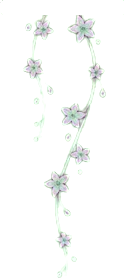
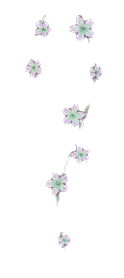
Jungle vines: hang from the screen edge, thick, behind the cards; clean assets; no ivy, no garlands
Climbers are pothos-hanging and hoya-hanging (new cleaned files), drawn 90px wide
with the edge of the screen cutting 39% of them, so a 55px strip shows, up to 450px
tall, fading in at the top and dissolving at the end. They sit behind the cards,
with a mask hole under every text line, icon and control the strip meets. No gap
between cards is opened. Ivy and all garlands are deleted (files and code); the
corner plant on the gnome card is restored from main.

Claude-Session: https://claude.ai/code/session_01KwF536G8oVpFRFLTUkqtJD

diff --git a/index.html b/index.html
@@ -958,15 +958,24 @@ html:is([data-theme="nachal"],[data-theme="jungle"]) #site-search{padding:14px 4
 [data-theme="jungle"] .jg-home .nh-greet{margin-top:2px}
 [data-theme="jungle"] .jg-home .nh-tools{margin-top:16px}
 [data-theme="jungle"] .jg-home .nh-sec{margin-top:24px}
+/* the plant in the corner of the briefing card, as it was: a thin corner vine and a hoya cluster, golden glow, a few sparkles */
+[data-theme="jungle"] .jgc-host{position:relative;overflow:visible!important}
+[data-theme="jungle"] .jg-corner{position:absolute;inset:0;pointer-events:none;z-index:2}
+[data-theme="jungle"] .jgc{position:absolute;z-index:2;pointer-events:none}
+[data-theme="jungle"] .jgc b{position:absolute;inset:0;background:center/contain no-repeat;filter:drop-shadow(0 0 8px var(--jg-gold))}
+[data-theme="jungle"] .jgc i{position:absolute;width:4px;height:4px;margin:-2px 0 0 -2px;border-radius:50%;pointer-events:none;
+  background:#FFE9AE;box-shadow:0 0 5px 1px rgba(255,218,130,.75);opacity:.55;animation:jg-twinkle 5s ease-in-out infinite}
+[data-theme="jungle"] .jgc-corner{top:-14px;left:-14px;width:96px;height:98px}
+[data-theme="jungle"] .jgc-hoya{top:-44px;left:30px;width:40px;height:58px}
 /* vines between cards: hidden behind the card above (it is higher in the stack), drawn over the top of the card below.
    The glow is on the drawing alone; sparkles ride its centre line; the wave of light is the sparkles lighting one after another. */
 [data-theme="jungle"] .vn-card{position:relative}
-[data-theme="jungle"] .vn{position:absolute;pointer-events:none}
-[data-theme="jungle"] .vn b{position:absolute;inset:0;background:center/100% 100% no-repeat}
-/* the part behind the card above is not drawn at all (a translucent card would show it): the vine starts at that card's lower edge */
-[data-theme="jungle"] .vn b{-webkit-mask-image:linear-gradient(to bottom,transparent calc(var(--hide) - 2px),#000 calc(var(--hide) + 5px));mask-image:linear-gradient(to bottom,transparent calc(var(--hide) - 2px),#000 calc(var(--hide) + 5px))}
-[data-theme="jungle"] .vn-mint b{filter:drop-shadow(0 0 6px var(--jg-mint))}
-[data-theme="jungle"] .vn-gold b{filter:drop-shadow(0 0 6px var(--jg-gold))}
+[data-theme="jungle"] .vn{position:absolute;pointer-events:none;overflow:hidden}
+/* the box is the strip at the edge of the screen: it clips the half of the drawing the edge cuts off, fades the top in and dissolves the end */
+[data-theme="jungle"] .vn img{position:absolute;top:0;display:block;image-rendering:auto;user-select:none;-webkit-user-drag:none}
+/* the glow is a drop-shadow on the drawing itself: no box, no background, no gradient behind it */
+[data-theme="jungle"] .vn-mint img{filter:drop-shadow(0 0 6px var(--jg-mint))}
+[data-theme="jungle"] .vn-gold img{filter:drop-shadow(0 0 6px var(--jg-gold))}
 [data-theme="jungle"] .vn i{position:absolute;width:4px;height:4px;margin:-2px 0 0 -2px;border-radius:50%;opacity:.22;
   animation:vn-spark 8s ease-in-out infinite;animation-delay:calc(var(--t) * 2.4s)}
 [data-theme="jungle"] .vn-mint i{background:#E2FFF2;box-shadow:0 0 5px 1px rgba(170,255,220,.85)}
@@ -974,7 +983,7 @@ html:is([data-theme="nachal"],[data-theme="jungle"]) #site-search{padding:14px 4
 @keyframes vn-spark{0%,34%,100%{opacity:.22;transform:scale(.7)}14%{opacity:1;transform:scale(1.35)}}
 [data-theme="jungle"] .vn.vn-wave i{animation:vn-wave 1.4s ease-out 1 both;animation-delay:calc(var(--t) * .85s)}
 @keyframes vn-wave{0%{opacity:.22;transform:scale(.7)}35%{opacity:1;transform:scale(2.1)}100%{opacity:.22;transform:scale(.7)}}
-[data-theme="jungle"] .vn.vn-wave b{animation:vn-glow 1.4s ease-out 1}
+[data-theme="jungle"] .vn.vn-wave img{animation:vn-glow 1.4s ease-out 1}
 @keyframes vn-glow{35%{filter:drop-shadow(0 0 11px var(--jg-gold))}}
 [data-theme="jungle"] .vn.vn-off i{animation-play-state:paused}
 /* status: a glass bead and an ink word */
@@ -1000,8 +1009,8 @@ html:is([data-theme="nachal"],[data-theme="jungle"]) #site-search{padding:14px 4
 /* the nav stays Nachal's to the pixel: its ink is pinned to Nachal's */
 [data-theme="jungle"] #nav{--t1:#0B1A12;--t2:#34473D;--t3:#4A5A52;color:#0B1A12}
 @media (prefers-reduced-motion:reduce){
-  [data-theme="jungle"] :is(.jg-spark,.jg-star.new,.jg-branch.all .jg-branch-v,.vn i,.vn b){animation:none!important}
-  [data-theme="jungle"] :is(.jg-spark,.vn i){opacity:.8}}
+  [data-theme="jungle"] :is(.jg-spark,.jg-star.new,.jg-branch.all .jg-branch-v,.vn i,.vn img,.jgc i){animation:none!important}
+  [data-theme="jungle"] :is(.jg-spark,.vn i,.jgc i){opacity:.8}}
 /* the jungle's nav: its own drawings at 26px in a finer line, and the chosen
    tab marked by a warm amber disc with a soft glow (it still springs from tab
    to tab like the drop); badges and the bar itself are Nachal's */
@@ -1033,7 +1042,7 @@ html:is([data-theme="nachal"],[data-theme="jungle"]) #site-search{padding:14px 4
 [data-theme="jungle"] .gn-bubble[role="button"]{cursor:pointer}
 [data-theme="jungle"] .gn-k{font-size:12.5px;font-weight:700;color:var(--gold);line-height:1.2}
 [data-theme="jungle"] .gn-t{font-size:15px;font-weight:600;line-height:1.35;color:var(--t1);text-wrap:balance;display:-webkit-box;-webkit-line-clamp:2;-webkit-box-orient:vertical;overflow:hidden}
-[data-theme="jungle"] .gn-edit{position:absolute;top:-6px;left:-6px;width:32px;height:32px;border-radius:50%;background:var(--surface-2);color:var(--t2);display:grid;place-items:center;font-size:15px;box-shadow:0 2px 6px -2px rgba(0,0,0,.4)}
+[data-theme="jungle"] .gn-edit{position:absolute;bottom:22px;left:-6px;width:32px;height:32px;border-radius:50%;background:var(--surface-2);color:var(--t2);display:grid;place-items:center;font-size:15px;box-shadow:0 2px 6px -2px rgba(0,0,0,.4)}
 [data-theme="jungle"] .gn-dots{display:flex;gap:6px;justify-content:center}
 [data-theme="jungle"] .gn-dots i{width:7px;height:7px;border-radius:50%;background:rgba(45,102,52,.28)}
 [data-theme="jungle"] .gn-dots i.on{background:var(--gold);box-shadow:0 0 6px rgba(111,181,122,.8)}
@@ -4591,7 +4600,7 @@ function gnomeSlotHtml() {
   const full = gnFull ? dailyBriefingHtml() : ''
   return gnomeCardHtml() + (gnFull ? `<div class="gn-full">${full || `<div class="card"><div class="muted" style="font-size:var(--fs-sm)">${tr('home_briefing_no_server')}</div></div>`}<button class="gn-btn gn-close" onclick="toggleGnFull()">${tr('gn_less')}</button></div>` : '')
 }
-function gnNext() { const el = document.getElementById('jg-gnome'); if(!el) return; haptic('light'); if(el.dataset.kind === 'greet') gnGreet = false; else gnIdx++; el.outerHTML = gnomeCardHtml(); gnomeAfterRender() }
+function gnNext() { const el = document.getElementById('jg-gnome'); if(!el) return; haptic('light'); if(el.dataset.kind === 'greet') gnGreet = false; else gnIdx++; el.outerHTML = gnomeCardHtml(); gnomeAfterRender(); jungleDress('home') }
 function toggleGnFull() { gnFull = !gnFull; if(currentScreen === 'home') renderHome() }
 // motion: breathing/sway/glow are CSS (paused off-screen, off with reduced motion); the wave and the blink are timed here
 function gnomeSet(img, key) { const t = GN_TAB[key]; if(!t) return; const tmp = document.createElement('div'); tmp.innerHTML = gnPoseHtml(key); const n = tmp.querySelector('.gn-img'); img.src = n.src; img.style.cssText = n.style.cssText; img.dataset.pose = key }
@@ -4617,111 +4626,119 @@ function gnomeAfterRender() {
 }
 
 // ── VINES BETWEEN THE CARDS (jungle) ──
-// A vine grows out from behind one card, hangs through the gap and over the
-// top of the card below. The layering does it: every card in a run gets a
-// z-index one step lower than the card above, and the vine sits between two
-// of them, so it is hidden behind the upper card (its cut end never shows)
-// and drawn in front of the lower one. No wrapper is added around any card.
-// Where it lands is measured, not guessed: the vine is placed only where no
-// text, icon or control lies under it, and shortened or moved sideways until
-// that is true; if no place is free there is no vine. At most two to a
-// screen, alternating (a hanging vine, then a garland across the next gap),
-// never on every gap. The glow is a drop-shadow on the drawing only; golden
-// or mint sparkles sit along the vine's own centre line, and a slow wave of
-// light runs down it every 8 seconds while it is on screen. Finishing a task
+// A vine grows out from behind one card, hangs through a window opened in the
+// gap and lies over the top of the card below. The layering does it: every
+// card in a run gets a z-index one step lower than the card above, and the
+// vine sits between two of them, so it is hidden behind the upper card (its
+// cut end never shows) and drawn in front of the lower one; nothing wraps a
+// card and nothing sits behind a vine.
+// Size: every vine is drawn at exactly half the size of its file, so the file
+// holds twice the pixels the layout needs (a 3x phone gets 1.5x of them, never
+// less), nothing is enlarged and no filter blurs it. That puts the hanging
+// A climber hangs from the edge of the screen, like a plant growing at the side of the page: its
+// drawing is 90px wide and half of it is cut off by the edge, so what shows is a 55px strip. It sits
+// behind the cards (the cards are in front of it), so it shows in the margin beside them and in the
+// gaps between them and is never over text, an icon or a button. It starts beside the first card,
+// fades in at its top, hangs up to 450px and dissolves at the end (or where something that is not
+// a card, a heading, stands in the strip). One on the left; one more on the right only when there is
+// room and height below the first one's end. Nothing about the layout changes: the gap between
+// the cards is not touched. The glow is a drop-shadow on the img itself; sparkles ride its centre
+// line, a slow wave of light runs down it every 8s while it is on screen, and finishing a task
 // sends one quicker wave down the nearest vine. Static with reduced motion.
 // Line table: for each drawing, points along its centre line [position along, across] as fractions.
-const VN = {"fern":{"d":"hanging","w":125,"h":280,"tone":"mint","line":[[0.036,0.501],[0.107,0.486],[0.179,0.511],[0.25,0.514],[0.321,0.498],[0.393,0.542],[0.464,0.546],[0.536,0.555],[0.607,0.532],[0.679,0.504],[0.75,0.479],[0.821,0.473],[0.893,0.474],[0.964,0.482]]},"hoya":{"d":"hanging","w":124,"h":264,"tone":"gold","line":[[0.034,0.492],[0.104,0.487],[0.176,0.478],[0.248,0.485],[0.32,0.527],[0.392,0.493],[0.464,0.494],[0.534,0.564],[0.604,0.487],[0.676,0.348],[0.748,0.374],[0.82,0.498],[0.892,0.563],[0.964,0.428]]},"ivy":{"d":"hanging","w":124,"h":269,"tone":"mint","line":[[0.035,0.479],[0.106,0.467],[0.177,0.491],[0.247,0.538],[0.32,0.516],[0.392,0.572],[0.463,0.509],[0.533,0.568],[0.604,0.484],[0.677,0.576],[0.749,0.528],[0.82,0.448],[0.89,0.484],[0.963,0.444]]},"pothos":{"d":"hanging","w":124,"h":281,"tone":"mint","line":[[0.036,0.517],[0.107,0.488],[0.178,0.493],[0.249,0.537],[0.32,0.468],[0.391,0.521],[0.463,0.489],[0.534,0.555],[0.605,0.46],[0.676,0.56],[0.747,0.437],[0.819,0.509],[0.89,0.483],[0.963,0.46]]},"star-flower":{"d":"hanging","w":124,"h":278,"tone":"gold","line":[[0.034,0.525],[0.104,0.522],[0.176,0.584],[0.248,0.475],[0.32,0.635],[0.392,0.582],[0.464,0.545],[0.534,0.617],[0.604,0.554],[0.676,0.46],[0.748,0.485],[0.82,0.498],[0.892,0.517],[0.964,0.519]]},"string-hearts":{"d":"hanging","w":81,"h":264,"tone":"mint","line":[[0.034,0.499],[0.104,0.479],[0.176,0.489],[0.248,0.494],[0.32,0.418],[0.392,0.486],[0.464,0.547],[0.534,0.433],[0.604,0.479],[0.676,0.407],[0.748,0.581],[0.82,0.44],[0.892,0.398],[0.964,0.503]]},"garland-fern-hoya":{"d":"garlands","w":461,"h":143,"tone":"gold","line":[[0.035,0.309],[0.105,0.407],[0.177,0.51],[0.248,0.519],[0.32,0.545],[0.392,0.518],[0.463,0.472],[0.535,0.557],[0.606,0.569],[0.678,0.53],[0.749,0.477],[0.821,0.511],[0.893,0.401],[0.964,0.306]]},"garland-ivy":{"d":"garlands","w":460,"h":94,"tone":"mint","line":[[0.035,0.33],[0.105,0.458],[0.177,0.556],[0.249,0.658],[0.321,0.726],[0.392,0.767],[0.464,0.811],[0.535,0.765],[0.605,0.788],[0.677,0.749],[0.749,0.705],[0.821,0.592],[0.892,0.501],[0.964,0.302]]},"garland-pothos":{"d":"garlands","w":460,"h":112,"tone":"mint","line":[[0.035,0.291],[0.105,0.401],[0.177,0.495],[0.249,0.535],[0.321,0.656],[0.392,0.638],[0.464,0.661],[0.535,0.694],[0.605,0.659],[0.677,0.604],[0.749,0.547],[0.821,0.512],[0.892,0.421],[0.964,0.271]]},"garland-stars":{"d":"garlands","w":441,"h":68,"tone":"gold","line":[[0.035,0.203],[0.107,0.524],[0.178,0.58],[0.249,0.616],[0.321,0.815],[0.392,0.839],[0.464,0.806],[0.535,0.658],[0.607,0.88],[0.678,0.795],[0.749,0.716],[0.821,0.619],[0.892,0.486],[0.964,0.185]]},"hoya-hanging":{"d":"tall-hanging","w":137,"h":820,"tone":"gold","line":[[0.035,0.52],[0.107,0.621],[0.178,0.612],[0.249,0.574],[0.321,0.357],[0.392,0.374],[0.464,0.481],[0.535,0.437],[0.607,0.605],[0.678,0.622],[0.749,0.628],[0.821,0.518],[0.892,0.531],[0.964,0.52]]},"ivy-hanging":{"d":"tall-hanging","w":130,"h":829,"tone":"mint","line":[[0.036,0.594],[0.107,0.635],[0.178,0.548],[0.249,0.616],[0.321,0.421],[0.393,0.322],[0.464,0.329],[0.535,0.505],[0.606,0.62],[0.678,0.742],[0.75,0.69],[0.821,0.539],[0.892,0.548],[0.964,0.584]]},"pothos-hanging":{"d":"tall-hanging","w":155,"h":821,"tone":"mint","line":[[0.035,0.417],[0.107,0.443],[0.178,0.486],[0.249,0.405],[0.321,0.49],[0.392,0.287],[0.463,0.387],[0.535,0.434],[0.607,0.51],[0.678,0.665],[0.75,0.601],[0.821,0.407],[0.892,0.444],[0.964,0.499]]},"star-thin-hanging":{"d":"tall-hanging","w":82,"h":851,"tone":"gold","line":[[0.035,0.442],[0.106,0.457],[0.178,0.663],[0.25,0.62],[0.321,0.294],[0.392,0.253],[0.464,0.421],[0.535,0.617],[0.607,0.762],[0.678,0.737],[0.749,0.517],[0.821,0.374],[0.892,0.522],[0.964,0.583]]}}
-// the hanging vine and the garland for each screen; the thin tall drawings where a thin vine suits (Tasks, People), the other family as a fallback
-const VN_PICK = {home: ['pothos', 'garland-ivy'], tasks: ['hoya-hanging', 'garland-pothos'], people: ['ivy-hanging', 'garland-stars'], sites: ['fern', 'garland-ivy']}
-const VN_ALT = {home: 'ivy', tasks: 'hoya', people: 'pothos-hanging', sites: 'star-thin-hanging'}
-const VN_HIDE = 22        // how far a vine reaches up behind the card it hangs from, px
+const VN = {"pothos-hanging":{"d":"tall-hanging","w":155,"h":821,"tone":"mint","line":[[0.021,0.342],[0.062,0.471],[0.104,0.484],[0.146,0.337],[0.188,0.54],[0.229,0.475],[0.271,0.335],[0.312,0.525],[0.354,0.39],[0.396,0.293],[0.438,0.307],[0.479,0.399],[0.521,0.408],[0.562,0.4],[0.604,0.522],[0.646,0.579],[0.688,0.677],[0.729,0.547],[0.771,0.572],[0.812,0.419],[0.854,0.371],[0.896,0.453],[0.938,0.507],[0.979,0.451]]},"hoya-hanging":{"d":"tall-hanging","w":137,"h":820,"tone":"gold","line":[[0.021,0.497],[0.062,0.573],[0.104,0.723],[0.146,0.513],[0.188,0.629],[0.229,0.708],[0.271,0.421],[0.312,0.369],[0.354,0.381],[0.396,0.33],[0.438,0.411],[0.479,0.518],[0.521,0.368],[0.562,0.592],[0.604,0.631],[0.646,0.528],[0.688,0.655],[0.729,0.682],[0.771,0.556],[0.812,0.524],[0.854,0.476],[0.896,0.515],[0.938,0.57],[0.979,0.501]]}}
+const VN_W = 90              // drawn width of the drawing before the edge cuts it (scale .58 pothos, .66 hoya: never under .5)
+const VN_STRIP = 55          // what shows of it: this much from the edge of the screen
+const VN_MAXLEN = 450, VN_MINLEN = 300, VN_FADE_TOP = 40, VN_FADE_END = 70
+const VN_PAD = 14            // room on the inner side of the strip for the glow (the box clips at its edge, not at the drawing)
+const VN_PICK = {home: ['pothos-hanging', 'hoya-hanging'], tasks: ['hoya-hanging', 'pothos-hanging'], people: ['pothos-hanging', 'hoya-hanging'], sites: ['hoya-hanging', 'pothos-hanging']}
 let vnObs = null, vnRO = null, vnLast = 0
 function vnSrc(k) { return 'assets/vines/' + VN[k].d + '/' + k + '.webp' }
-function vnHtml(k, g, z, hide) {
-  const t = VN[k], horiz = t.d === 'garlands', long = horiz ? g.w : g.h, n = Math.max(3, Math.round(long * (horiz ? 0.012 : 0.036)))
-  const at = (f) => { const L = t.line; if(!L.length) return [f, .5]; let i = 0; while(i < L.length - 1 && L[i + 1][0] < f) i++; const a = L[i], b = L[Math.min(i + 1, L.length - 1)], u = b[0] === a[0] ? 0 : Math.max(0, Math.min(1, (f - a[0]) / (b[0] - a[0]))); return [f, a[1] + (b[1] - a[1]) * u] }
+// side: 'l' or 'r'; box: {x, y, len} relative to the container, x being the box's left edge (the edge of the screen on the left,
+// the strip's inner side on the right); the span is VN_STRIP + VN_PAD wide and clips at the edge.
+function vnHtml(k, side, box, z, holes) {
+  const t = VN[k], W = VN_W, H = W * t.h / t.w, P = VN_PAD, bw = VN_STRIP + P, cutW = W - VN_STRIP
+  const il = side === 'l' ? -cutW : bw - VN_STRIP, n = Math.max(3, Math.round(box.len * .036))
+  const at = f => { const L = t.line; let i = 0; while(i < L.length - 1 && L[i + 1][0] < f) i++; const a = L[i], b = L[Math.min(i + 1, L.length - 1)], u = b[0] === a[0] ? 0 : Math.max(0, Math.min(1, (f - a[0]) / (b[0] - a[0]))); return a[1] + (b[1] - a[1]) * u }
   let sp = ''
-  for(let i = 0; i < n; i++) { const f = (i + .5) / n, p = at(f), x = horiz ? f : p[1], y = horiz ? p[1] : f; sp += '<i style="left:' + (x * 100).toFixed(1) + '%;top:' + (y * 100).toFixed(1) + '%;--t:' + f.toFixed(2) + '"></i>' }
-  return '<span class="vn vn-' + t.tone + '" aria-hidden="true" style="left:' + g.x.toFixed(1) + 'px;top:' + g.y.toFixed(1) + 'px;width:' + g.w.toFixed(1) + 'px;height:' + g.h.toFixed(1) + 'px;z-index:' + z + ';--hide:' + hide + 'px"><b style="background-image:url(\'' + vnSrc(k) + '\')"></b>' + sp + '</span>'
+  for(let i = 0; i < n; i++) { const y = (i + .5) / n * box.len, f = y / H, x = il + at(f) * W; if(x < 2 || x > bw - 2) continue; sp += '<i style="left:' + x.toFixed(1) + 'px;top:' + y.toFixed(1) + 'px;--t:' + (y / box.len).toFixed(2) + '"></i>' }
+  return '<span class="vn vn-' + t.tone + ' vn-' + side + '" aria-hidden="true" data-vine="' + k + '" data-side="' + side + '" style="left:' + box.x.toFixed(1) + 'px;top:' + box.y.toFixed(1) + 'px;width:' + bw + 'px;height:' + box.len.toFixed(1) + 'px;z-index:' + z + ';--len:' + box.len.toFixed(1) + 'px;' + vnMask(box.len, bw, holes) + '"><img alt="" draggable="false" style="left:' + il.toFixed(1) + 'px;width:' + W + 'px;height:' + H.toFixed(1) + 'px" src="' + vnSrc(k) + '">' + sp + '</span>'
+}
+// the vine's mask: fade in at the top, dissolve at the end, and a hole under every text line, icon and control that its strip meets
+// (holes are {x, y, w, h} inside the span). Drawn in front of nothing readable: where it would be, the card shows alone.
+function vnMask(len, bw, holes) {
+  const grad = 'linear-gradient(to bottom,transparent 0,#000 40px,#000 ' + Math.max(41, len - VN_FADE_END).toFixed(1) + 'px,transparent ' + len.toFixed(1) + 'px)', solid = 'linear-gradient(#000,#000)'
+  const img = [grad].concat(holes.map(() => solid)).join(','), size = ['100% 100%'].concat(holes.map(h => h.w.toFixed(1) + 'px ' + h.h.toFixed(1) + 'px')).join(',')
+  const pos = ['0 0'].concat(holes.map(h => h.x.toFixed(1) + 'px ' + h.y.toFixed(1) + 'px')).join(','), comp = ['subtract'].concat(holes.map(() => 'add')).join(','), wcomp = ['source-out'].concat(holes.map(() => 'source-over')).join(',')
+  return '-webkit-mask-image:' + img + ';mask-image:' + img + ';-webkit-mask-size:' + size + ';mask-size:' + size + ';-webkit-mask-position:' + pos + ';mask-position:' + pos + ';-webkit-mask-repeat:no-repeat;mask-repeat:no-repeat;-webkit-mask-composite:' + wcomp + ';mask-composite:' + comp
 }
 // the rectangles of everything readable or touchable inside root (text lines, controls, icons, pictures)
 function vnContent(root, skip) {
   const out = [], push = r => { if(r.width > 0.5 && r.height > 0.5) out.push(r) }
   const w = document.createTreeWalker(root, NodeFilter.SHOW_TEXT)
   let n; while((n = w.nextNode())) { if(!n.textContent.trim() || (skip && skip(n.parentElement))) continue; const rg = document.createRange(); rg.selectNodeContents(n); Array.prototype.forEach.call(rg.getClientRects(), push) }
-  root.querySelectorAll('button,a,input,select,textarea,svg,img,[role="button"],.nh-tick,.nh-check').forEach(e => { if(!(skip && skip(e)) && !e.closest('.vn')) push(e.getBoundingClientRect()) })
+  root.querySelectorAll('button,a,input,select,textarea,svg,img,.nh-tick,.nh-check').forEach(e => { if(!(skip && skip(e)) && !e.closest('.vn')) push(e.getBoundingClientRect()) })
   return out
 }
 function vnClear(el) {
   el.querySelectorAll('.vn').forEach(v => v.remove())
-  el.querySelectorAll('[data-vn]').forEach(c => { c.style.zIndex = ''; if(c.dataset.vnm !== undefined) { c.style.marginBottom = c.dataset.vnm; delete c.dataset.vnm } c.classList.remove('vn-card'); delete c.dataset.vn })
+  el.querySelectorAll('[data-vn]').forEach(c => { c.style.zIndex = ''; c.classList.remove('vn-card'); delete c.dataset.vn })
 }
 function jungleVines(screen) {
   const el = document.getElementById('screen-' + screen); if(!el) return
   vnClear(el)
   if(currentTheme !== 'jungle') return
-  let container, cards, sel
+  let container, cards
   if(screen === 'home') { container = el.querySelector('.jg-home'); cards = container ? [container.querySelector('#jg-gnome, #daily-briefing'), container.querySelector('.nh-list'), container.querySelector('.nh-garden'), container.querySelector('.nh-peek')] : [] }
   else if(screen === 'tasks') { container = el.querySelector('.card .nh-check') ? el.querySelector('.card .nh-check').closest('.card').parentElement : null; cards = container ? [...container.children].filter(c => c.matches('.card, div:has(> .right-now-toggle)')) : [] }
   else if(screen === 'people') { const c0 = el.querySelector(':scope > div .card'); container = c0 ? c0.parentElement : null; cards = container ? [...container.children].filter(c => c.matches('.card')) : [] }
   else if(screen === 'sites') { container = el.querySelector('#sites-results'); cards = container ? [...container.querySelectorAll(':scope > .site-card')] : [] }
   else return
-  cards = cards.filter(Boolean); if(!container || cards.length < 2) return
-  // pairs: consecutive cards, a hanging vine on the first gap, a garland on the next, never more than two
-  const plan = [], seq = ['hang', 'garland']
-  for(let i = 0; i + 1 < cards.length && plan.length < 2; i += (plan.length ? 1 : 1)) {
-    if(plan.length === 1 && i < plan[0].i + 2) continue   // not on every gap: skip one
-    plan.push({i, A: cards[i], B: cards[i + 1], kind: seq[plan.length]})
-  }
-  if(!plan.length) return
+  cards = cards.filter(Boolean)
+  if(!container || !cards.length) return
   if(getComputedStyle(container).position === 'static') container.style.position = 'relative'
   container.style.isolation = 'isolate'
-  // open the gaps a vine grows through, then measure once
-  plan.forEach(p => { const A = p.A; A.dataset.vnm = A.style.marginBottom; const need = p.kind === 'garland' ? 38 : 30; const gap = p.B.getBoundingClientRect().top - A.getBoundingClientRect().bottom; if(gap < need) A.style.marginBottom = (parseFloat(getComputedStyle(A).marginBottom) + (need - gap)).toFixed(0) + 'px' })
-  cards.forEach((c, j) => { c.dataset.vn = '1'; c.classList.add('vn-card'); c.style.zIndex = String(100 - 4 * j) })
-  const cr = container.getBoundingClientRect(), rel = r => ({l: r.left - cr.left, r: r.right - cr.left, t: r.top - cr.top, b: r.bottom - cr.top})
+  // the cards are in front of the vines (z-index above), the vines in front of everything else
+  cards.forEach((c, j) => { c.dataset.vn = '1'; c.classList.add('vn-card'); c.style.zIndex = String(100 - j) })
+  const sr = el.getBoundingClientRect(), cr = container.getBoundingClientRect()
+  const rel = r => ({l: r.left - cr.left, r: r.right - cr.left, t: r.top - cr.top, b: r.bottom - cr.top})
+  const inCard = e => !!e.closest('[data-vn]') || !!e.closest('.vn')
+  // what stands in the way of a strip: anything readable or touchable that is not inside a card
+  const others = vnContent(container, inCard).map(rel)
+  const stripX = side => side === 'l' ? [sr.left - cr.left, sr.left - cr.left + VN_STRIP + 2] : [sr.right - cr.left - VN_STRIP - 2, sr.right - cr.left]
+  const reach = (side, y0) => { const [x0, x1] = stripX(side); let e = VN_MAXLEN
+    for(const q of others) if(q.r > x0 - 4 && q.l < x1 + 4 && q.b > y0 && q.t - 8 < y0 + e) e = Math.max(0, q.t - 8 - y0)
+    return e }
+  const ca = rel(cards[0].getBoundingClientRect()), bottomOf = rel(cards[cards.length - 1].getBoundingClientRect()).b
   const html = []
-  plan.forEach(function(p) {
-    const a = rel(p.A.getBoundingClientRect()), b = rel(p.B.getBoundingClientRect()), gap = b.t - a.b, j = cards.indexOf(p.A)
-    if(window.__vnDebug) window.__vnDebug.push({screen, kind: p.kind, gap: Math.round(gap)})
-    if(gap > 90 || gap < 0) return
-    const inA = a.r - a.l, free = function(box) {   // nothing readable or touchable under box (a little air around it)
-      const pad = 8, vpad = 2, hit = (r) => { const q = rel(r); return q.r > box.l - pad && q.l < box.r + pad && q.b > box.t - vpad && q.t < box.b + vpad }
-      const skip = e => e.closest('.vn')
-      const inGap = []; let s = p.A.nextElementSibling; while(s && s !== p.B && !s.contains(p.B)) { inGap.push(s); s = s.nextElementSibling }
-      return !inGap.some(g => vnContent(g, skip).some(hit)) && !vnContent(p.B, skip).some(hit)
-    }
-    const z = 98 - 4 * j
-    if(p.kind === 'hang') {
-      for(const k of [VN_PICK[screen][0], VN_ALT[screen]]) {
-        const t = VN[k], xs = [a.l + .14 * inA, a.r - .14 * inA, a.l + .5 * inA, a.l + .3 * inA, a.l + .7 * inA]
-        const overs = [60, 48, 36, 28, 20, 12, 0]
-        for(const over of overs) {
-          if(over === 0 && gap < 24) continue
-          const L = VN_HIDE + gap + over, w = Math.max(14, Math.min(62, t.w * L / t.h)), h = w * t.h / t.w
-          for(const x of xs) { const box = {l: x - w / 2, r: x + w / 2, t: a.b - VN_HIDE, b: a.b - VN_HIDE + h}
-            if(free({l: box.l, r: box.r, t: a.b, b: box.b})) { html.push(vnHtml(k, {x: box.l, y: box.t, w, h}, z, VN_HIDE)); return } }
-        }
-      }
-    } else {
-      const k = VN_PICK[screen][1], t = VN[k]
-      for(const W of [inA - 20, inA - 70, inA - 130]) {
-        if(W < 160) break
-        const h = W * t.h / t.w, x = a.l + (inA - W) / 2, box = {l: x, r: x + W, t: a.b - 10, b: a.b - 10 + h}
-        if(free({l: box.l, r: box.r, t: a.b, b: box.b})) { html.push(vnHtml(k, {x, y: box.t, w: W, h}, z, 10)); return }
-      }
-    }
-  })
+  const all = vnContent(container, e => !!e.closest('.vn')).map(rel), cardBox = cards.map(c => rel(c.getBoundingClientRect()))
+  const put = (k, side, y0, len) => { const x = side === 'l' ? sr.left - cr.left : sr.right - cr.left - (VN_STRIP + VN_PAD), bw = VN_STRIP + VN_PAD, pad = 6
+    const holes = all.filter(q => q.r + pad > x && q.l - pad < x + bw && q.b + pad > y0 && q.t - pad < y0 + len).map(q => {
+      // a hole stays inside the card its text or icon belongs to: in the margin beside the card there is nothing to protect
+      const cx = (q.l + q.r) / 2, cy = (q.t + q.b) / 2, cd = cardBox.find(c => cx >= c.l && cx <= c.r && cy >= c.t && cy <= c.b) || {l: -1e5, r: 1e5, t: -1e5, b: 1e5}
+      const l = Math.max(q.l - pad, cd.l), r = Math.min(q.r + pad, cd.r), t = Math.max(q.t - pad, cd.t), b = Math.min(q.b + pad, cd.b)
+      return {x: l - x, y: t - y0, w: r - l, h: b - t} })
+    html.push(vnHtml(k, side, {x, y: y0, len}, 1, holes)) }
+  // first: the left, beside the first card's lower part; the right if the left is taken
+  const y0 = Math.max(ca.t + 20, ca.b - 60)
+  let first = null
+  for(const side of ['l', 'r']) { const len = reach(side, y0); if(len >= VN_MINLEN) { first = {side, len, end: y0 + len}; break } }
+  if(!first) { const l = reach('l', y0), r = reach('r', y0); if(Math.max(l, r) >= 120) first = {side: l >= r ? 'l' : 'r', len: Math.max(l, r), end: y0 + Math.max(l, r)} }
+  if(!first) return
+  const pick = VN_PICK[screen]
+  put(pick[0], first.side, y0, first.len)
+  // a second one on the other side, beginning below the first one's end, only if a whole chain fits inside the cards
+  const other = first.side === 'l' ? 'r' : 'l', y1 = first.end + 40
+  if(bottomOf - y1 >= VN_MINLEN) { const len = reach(other, y1); if(len >= VN_MINLEN) put(pick[1], other, y1, len) }
   container.insertAdjacentHTML('beforeend', html.join(''))
-  vnWatch(el, container, screen)
+  vnWatch(container, screen)
 }
 // on screen: the slow wave runs; off screen it pauses. A resize re-places the vines.
-function vnWatch(el, container, screen) {
+function vnWatch(container, screen, animating) {
   const vs = container.querySelectorAll('.vn')
   if(window.IntersectionObserver) { if(!vnObs) vnObs = new IntersectionObserver(es => es.forEach(e => e.target.classList.toggle('vn-off', !e.isIntersecting)), {threshold: .05}); vs.forEach(v => vnObs.observe(v)) }
-  if(window.ResizeObserver) { if(vnRO) vnRO.disconnect(); vnRO = new ResizeObserver(() => { if(Date.now() - vnLast < 150) return; vnLast = Date.now(); requestAnimationFrame(() => { if(currentScreen === screen) jungleVines(screen) }) }); vnRO.observe(container) }
-  vnLast = Date.now()
+  if(window.ResizeObserver) { if(vnRO) vnRO.disconnect(); vnRO = new ResizeObserver(() => { if(Date.now() - vnLast < 900) return; vnLast = Date.now(); requestAnimationFrame(() => { if(currentScreen === screen) jungleVines(screen) }) }); vnRO.observe(container) }
+  vnLast = Date.now() + (animating ? 300 : 0)
 }
 // one quicker wave of light down the vine nearest the middle of the screen
 function vnWave(el) {
@@ -4730,7 +4747,21 @@ function vnWave(el) {
   const mid = innerHeight / 2, v = vs.sort((a, b) => Math.abs(a.getBoundingClientRect().top - mid) - Math.abs(b.getBoundingClientRect().top - mid))[0]
   v.classList.remove('vn-wave'); void v.offsetWidth; v.classList.add('vn-wave'); setTimeout(() => v.classList.remove('vn-wave'), 1800)
 }
-function jungleDress(screen) { if(currentTheme === 'jungle') jungleVines(screen) }
+// ── the plant in the corner of the briefing card (the one Uri keeps from before): a thin corner vine and a hoya
+// cluster, golden glow and sparkles, fixed to the card's top-left corner and reaching a little beyond it.
+function jgCornerHtml() {
+  const part = (file, cls, sp) => '<span class="jgc ' + cls + '"><b style="background-image:url(\'assets/vines/' + file + '.webp\')"></b>' + sp.map((p, i) => '<i style="left:' + p[0] + '%;top:' + p[1] + '%;animation-delay:' + (i * 1.1).toFixed(1) + 's"></i>').join('') + '</span>'
+  return '<span class="jg-corner" aria-hidden="true">' + part('thin/thin-corner', 'jgc-corner', [[12, 14], [34, 8], [10, 40]]) + part('large/hoya', 'jgc-hoya', [[38, 46], [62, 60], [48, 22]]) + '</span>'
+}
+function jgCorner(card) {
+  if(!card || card.querySelector(':scope > .jg-corner')) return
+  card.classList.add('jgc-host'); card.insertAdjacentHTML('afterbegin', jgCornerHtml())
+}
+function jungleDress(screen) {
+  if(currentTheme !== 'jungle') return
+  if(screen === 'home') jgCorner(document.querySelector('#screen-home #jg-gnome, #screen-home #daily-briefing'))
+  jungleVines(screen)
+}
 
 // ── INPUT ────────────────────────────────────────
 const PREVIEW_GROUPS = [
